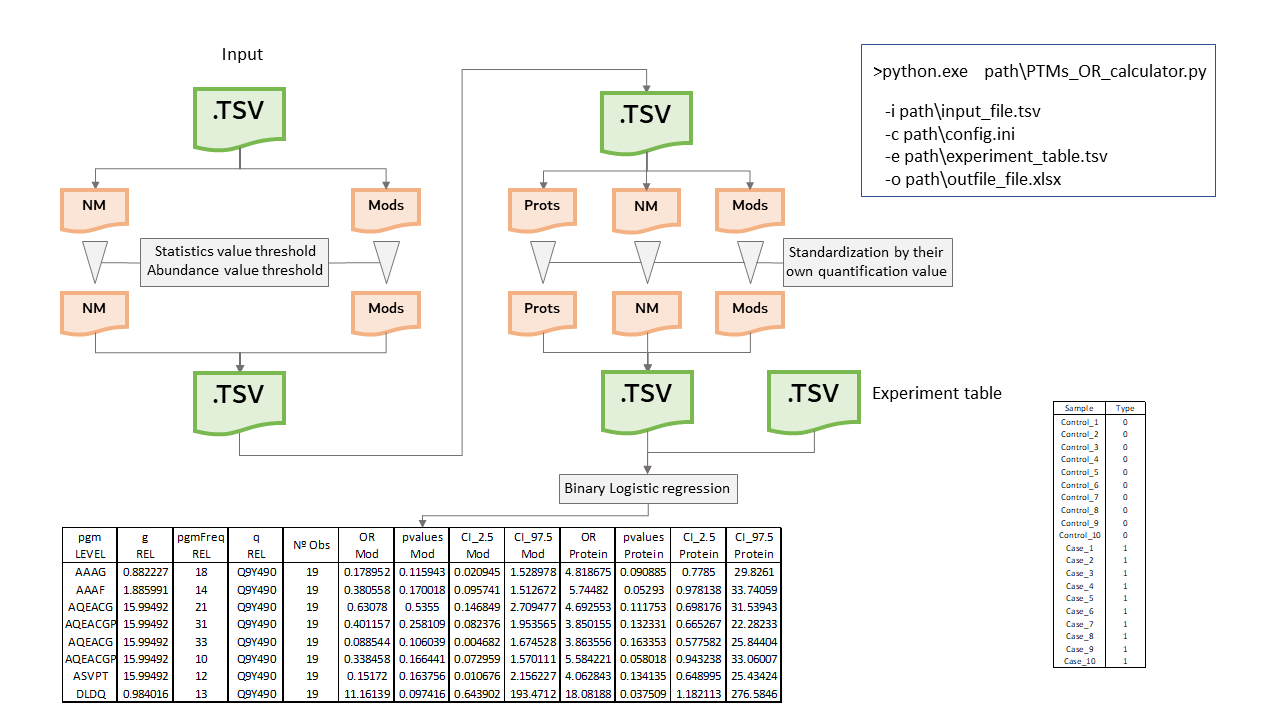
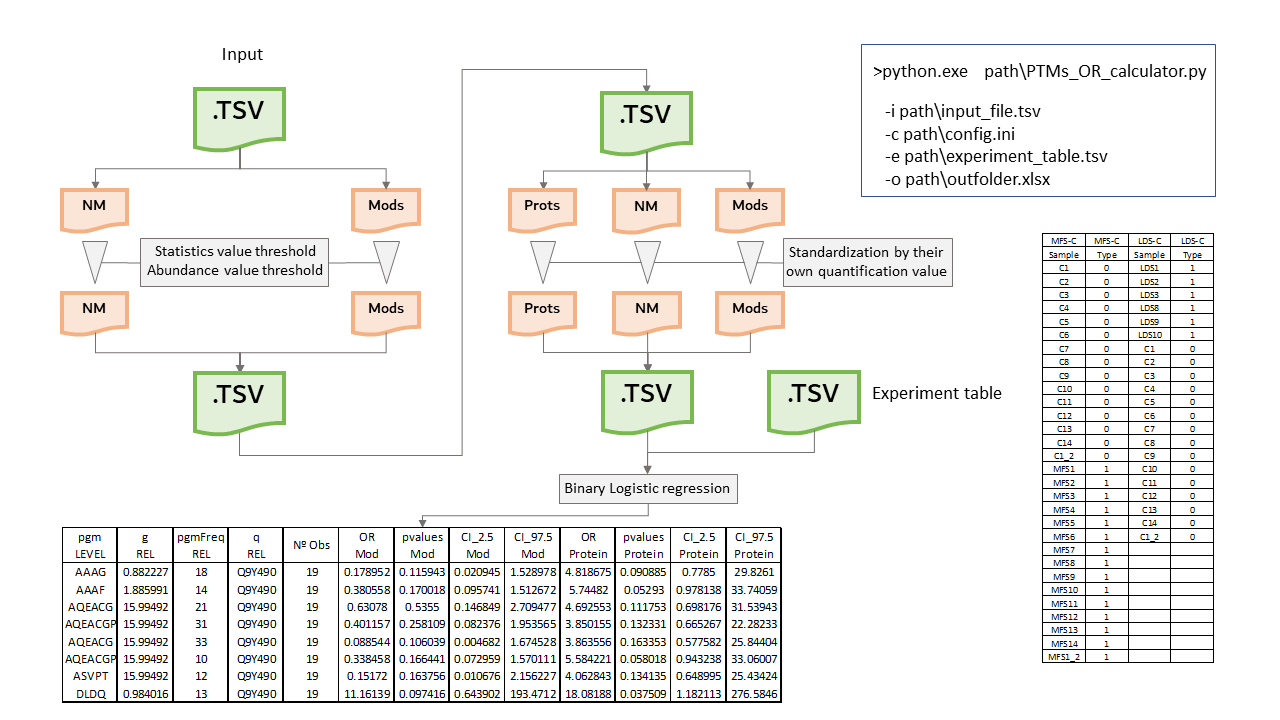
Adding branch for development v1.0.0

Changed region(s): [[0.8125, 0.3056, 0.9375, 0.9472], [0.75, 0.2444, 0.8438, 0.275]]

diff --git a/PTMs_OR.py b/PTMs_OR.py
@@ -24,11 +24,18 @@ import argparse
 import os
 import sys
 import logging
+import openpyxl
+
 warnings.filterwarnings("ignore")
 
 
 
 """ Functions """
+
+
+def check_folder(outfolder):
+    if not os.path.exists(outfolder):
+        os.makedirs(outfolder, exist_ok=True)
 
 
 def read_file(path, raw_table):
@@ -37,7 +44,7 @@ def read_file(path, raw_table):
         limma_table=pd.read_csv(path,sep='\t', header=[0,1])
         return limma_table
     else:
-        exp_table=pd.read_csv(path,sep='\t')
+        exp_table=pd.read_csv(path,sep='\t', header=[0,1])
         return exp_table
     
 
@@ -59,15 +66,16 @@ def filter_table(raw_table, group_column_header, nm_label,nm_stat_header,
 
 
 
-def prepare_table(filtered_table,samples,pgm_column_header, integrations_columns, 
-                  columns_to_save,prot_column_header, group_column_header):
+def prepare_table(filtered_table,samples,pgm_column_header, integrations_columns, columns_to_save,prot_column_header,
+                  group_column_header):
     
     filtered_table_nodup=filtered_table.drop_duplicates(pgm_column_header)
     headers=pd.MultiIndex.from_product([integrations_columns,samples])
     new_headers=columns_to_save+headers.to_list()
     def_table=filtered_table_nodup.loc[:,new_headers].reset_index(drop=True)
     prot_list=def_table[prot_column_header]
-    def_table[('pgm','BN')]=[f'A{i}_{prot_list[i]}' if 'NM' not in str(def_table[group_column_header][i]) else f'A{i}_NM_{prot_list[i]}' for i in range(len(def_table[group_column_header]))]
+    def_table[('pgm','BN')]=[f'A{i}_{prot_list[i]}' if 'NM' not in str(def_table[group_column_header][i]) else 
+                             f'A{i}_NM_{prot_list[i]}' for i in range(len(def_table[group_column_header]))]
 
     return def_table
 
@@ -107,7 +115,7 @@ def norm_files(tabla,integrations_columns,prot_integration_label, nm_integration
 
 
 
-def binary_regression(binary_table, formulas,variables):
+def binary_regression(binary_table, formulas,variables, correct_param):
 
     coefs=[]
     pvalues=[]
@@ -148,7 +156,11 @@ def binary_regression(binary_table, formulas,variables):
     df_results=pd.concat([coefs_df,pvalues_df,ci_df],axis=1)
 
     params=['OR','pvalues','CI_2.5','CI_97.5']
-    columns=['Intercept','Protein','Mod']
+
+    if correct_param ==1:
+        columns=['Intercept','Protein','Mod']
+    else:
+        columns=['Intercept','Mod']
     # columns=['Intercept','Protein']
     header=pd.MultiIndex.from_product([params,columns])
 
@@ -163,6 +175,87 @@ def binary_regression(binary_table, formulas,variables):
     return df_final
 
 
+def merge_report(report,data_table,columns_to_save):
+
+    meta_data=data_table.set_index(('pgm','BN')).loc[:,columns_to_save]
+    final_report=pd.merge(meta_data,report,left_index=True,right_index=True)
+
+    return final_report
+
+
+def plot_joiner(final_report, path_plots, path_plot_filtered, prot_column_header,
+                filter_label,contrast, outfolder):
+
+
+    if path_plots:
+
+
+        ptmMapPath_nofilt = path_plots
+        ptmMapPath_filt = path_plot_filtered
+        plotted_q = [os.path.splitext(j)[0] for j in os.listdir(ptmMapPath_nofilt)]
+        final_report[('PTMMap','NoFilt')]=[f"=HYPERLINK(\"{os.path.join(ptmMapPath_nofilt, j)}.html\", \"{j}\")" if j in plotted_q and
+                                           contrast in os.path.dirname(path_plots) and contrast in os.path.dirname(path_plot_filtered)
+                                           else '' for j in final_report[prot_column_header]]
+        
+        final_report[('PTMMap','Filt')]=[f"=HYPERLINK(\"{os.path.join(ptmMapPath_filt, j)}.html\", \"{j}\")" if j in plotted_q and 
+                                         contrast in os.path.dirname(path_plots) and contrast in os.path.dirname(path_plot_filtered) 
+                                         else '' for j in final_report[prot_column_header]]
+        
+        if contrast not in os.path.dirname(path_plots) or contrast not in os.path.dirname(path_plot_filtered):
+
+            logging.warning('You have provide PTMMaps that do not belong to the contrast you are analyzing')
+
+
+    else:
+
+        ptmMapPath_nofilt = os.path.join(os.path.dirname(outfolder), f'PTMMaps/{contrast}/plots')
+        ptmMapPath_filt = os.path.join(os.path.dirname(outfolder), f'PTMMaps/{contrast}/plots_{filter_label}')
+        plotted_q = [os.path.splitext(j)[0] for j in os.listdir(ptmMapPath_nofilt)]
+        ptmMapPathExcel_nofilt = f'../PTMMaps/{contrast}/plots'
+        ptmMapPathExcel_filt = f'../PTMMaps/{contrast}/plots_{filter_label}'
+
+        if os.path.exists(ptmMapPath_filt) and os.path.exists(ptmMapPath_nofilt):
+
+            final_report[('PTMMap','NoFilt')]=[f"=HYPERLINK(\"{os.path.join(ptmMapPathExcel_nofilt, j)}.html\", \"{j}\")" if j in plotted_q else j for j in final_report[prot_column_header]]
+            final_report[('PTMMap','Filt')]=[f"=HYPERLINK(\"{os.path.join(ptmMapPathExcel_filt, j)}.html\", \"{j}\")" if j in plotted_q else ''  for j in final_report[prot_column_header]]
+
+        else:
+            final_report[('PTMMap','NoFilt')]=''
+            final_report[('PTMMap','Filt')]=''
+            logging.warning('Your PTMMaps paths are wrong')
+
+    return final_report
+
+
+
+def report_format (report_plots, path_report, correct_param):
+
+    header=list(zip(*report_plots.columns.to_list()))
+    report_plots.columns = np.arange(0, report_plots.shape[1])
+    report_plots=pd.concat([pd.DataFrame(header),report_plots])
+    report_plots.to_excel(path_report,index=False, header=False)
+
+    toFormat = [n+1 for n,i in enumerate(report_plots.iloc[:, -1]) if 'HYPERLINK' in i]
+    toFormat2 = [n+1 for n,i in enumerate(report_plots.iloc[:, -2]) if 'HYPERLINK' in i]
+
+
+    book = openpyxl.load_workbook(path_report)
+
+    sheet = book['Sheet1']
+
+    if correct_param==1:
+        columns=['X','Y']
+    else:
+        columns=['T','U']
+
+    for i in toFormat:
+        sheet[f'{columns[0]}{i}'].font = openpyxl.styles.Font(color='0000FF', underline='single')
+
+    for i in toFormat2:
+        sheet[f'{columns[1]}{i}'].font = openpyxl.styles.Font(color='0000FF', underline='single')
+
+    book.save(path_report)
+
 
 def write_report(report,data_table,columns_to_save, path_report):
 
@@ -174,62 +267,88 @@ def write_report(report,data_table,columns_to_save, path_report):
 
 
 
-def main(path,path_exp,group_column_header, nm_label,nm_stat_header,
-         mod_stat_header,pgm_freq_header, stat_threshold, pgm_freq_threshold,
+def main(path,path_exp,group_column_header, nm_label,nm_stat_header_contrast,
+         mod_stat_header_contrast,pgm_freq_header, stat_threshold, pgm_freq_threshold,
          integrations_columns, columns_to_save, pgm_column_header,prot_column_header,
          prot_integration_label, nm_integration_label, mod_integration_label,path_report,
-         binary_exp_table_label):
+         binary_exp_table_label,groups, path_plots, path_plot_filtered, filter_label,outfolder,
+         correct_param):
 
-    print('\n')
     logging.info('Reading files')
 
     limma_table=read_file(path,True)
 
     exp_table=read_file(path_exp,False)
-    samples=exp_table['Sample'].to_list()
 
-    logging.info('Applying filters')
+    logging.info('Applying filters'+'\n')
 
-    print('\n'+'pvalue threshold:',stat_threshold)
-    print('pgmFrequency threshold:', pgm_freq_threshold,'\n')
+    logging.info('pvalue threshold: '+str(stat_threshold))
+    logging.info('pgmFrequency threshold: '+ str(pgm_freq_threshold)+'\n')
 
-    filtered_table=filter_table(limma_table,group_column_header, nm_label,nm_stat_header,
-                                mod_stat_header, pgm_freq_header, stat_threshold, pgm_freq_threshold)
+    samples=exp_table[groups]['Sample'].dropna().to_list()
+
+
+    filtered_table=filter_table(limma_table,group_column_header, nm_label,nm_stat_header_contrast,
+                                mod_stat_header_contrast, pgm_freq_header, stat_threshold, pgm_freq_threshold)
     
-    print('Nº pgms before filtering:', len(limma_table))
-    print('Nº pgms after filtering:', len(filtered_table),'\n')
 
+    logging.info('Nº pgms before filtering: '+ str(len(limma_table)))
+    logging.info('Nº pgms after filtering: '+ str(len(filtered_table))+'\n')
 
-    
 
     prepared_table=prepare_table(filtered_table,samples,pgm_column_header,integrations_columns,columns_to_save,
                             prot_column_header,group_column_header)
-    formulas=[f'{binary_exp_table_label}~{i.split("_")[-1]}+{i}' for i in prepared_table[('pgm','BN')]]
-    variables=prepared_table[('pgm','BN')].to_list()
     
+
+
     logging.info('Standarizing data')
-
-
+    
+    
     norm_table=norm_files(prepared_table,integrations_columns,prot_integration_label, nm_integration_label, mod_integration_label,
                group_column_header,nm_label,
                samples, prot_column_header)
     
 
-    binary_table=pd.merge(exp_table,norm_table,left_on='Sample',right_on='Sample')
+    binary_table=pd.merge(exp_table[groups],norm_table,left_on='Sample',right_on='Sample')
+
     binary_table.columns=[i.replace('-','_') for i in binary_table.columns]
 
-    # binary_table.to_excel(r'S:\U_Proteomica\LABS\LAB_ARR\LaCaixa\tejidos-secretomas\New_Comet_500\final_iSanxot\Intima\Q1\reports\WF\3_FDRoptimizer\file_to_check.xlsx')
+    if correct_param ==1:
 
-    logging.info('Applying Binary loggistic regression')
+        formulas=[f'{binary_exp_table_label}~{i.split("_")[-1]}+{i}' for i in prepared_table[('pgm','BN')]]
+
+    else:
+
+        logging.info('You are not correcting by protein\'s Zq')
+        
+        formulas=[f'{binary_exp_table_label}~{i}' for i in prepared_table[('pgm','BN')]]
+
+    variables=prepared_table[('pgm','BN')].to_list()
+
+
+    logging.info('Applying Binary logistic regression')
+
     
-    report=binary_regression(binary_table,formulas,variables)
+    report=binary_regression(binary_table,formulas,variables, correct_param)
 
     logging.info('Writting file')
 
-    write_report(report,prepared_table,columns_to_save,path_report)
+
+    merged_report=merge_report(report,prepared_table,columns_to_save)
 
 
-    return report
+    report_plots=plot_joiner(merged_report, path_plots,path_plot_filtered,prot_column_header,
+                             filter_label,groups, outfolder)
+    
+    
+    report_format(report_plots, path_report,correct_param)
+
+
+    return report_plots
+
+
+
+
 
 
 if __name__ == '__main__':
@@ -247,24 +366,18 @@ if __name__ == '__main__':
     parser.add_argument('-i', '--infile', required=True, help='Zqs file')
     parser.add_argument('-c', '--config', default=defaultconfig, help='Path to custom config.ini file')
     parser.add_argument('-e', '--experiment_table', required=True, help='Path to metadata.tsv file')
-    parser.add_argument('-o', '--outfile', required=True, help='Name of the output file')
+    parser.add_argument('-o', '--outfolder', required=True, help='Name of the output folder')
 
     args = parser.parse_args()
 
     path=args.infile
     path_exp=args.experiment_table
-    path_report=args.outfile
-    log_file = path_report[:-4] + '_binary_regression_log.txt'
-
-    logging.basicConfig(level=logging.INFO,
-                        format='%(asctime)s - %(levelname)s - %(message)s',
-                        datefmt='%m/%d/%Y %I:%M:%S %p',
-                        handlers=[logging.FileHandler(log_file),
-                                    logging.StreamHandler()])
+    path_report=args.outfolder
+ 
 
 
     # start main function
-    logging.info('start script: '+"{0}".format(" ".join([x for x in sys.argv])))
+
 
 
     config = configparser.ConfigParser(inline_comment_prefixes='#')
@@ -274,38 +387,69 @@ if __name__ == '__main__':
 
     """Reading parameters"""
 
-    group_column_header=tuple(eval(params['group_column_header.save']))
+    group_column_header=tuple(eval(params['group_column_header']))
     nm_label=params['nm_label']
-    nm_stat_header=tuple(eval(params['nm_statistic_header']))
-    mod_stat_header=tuple(eval(params['mod_statistic_header']))
-    pgm_freq_header=tuple(eval(params['pgm_freq_header.save']))
+    nm_stat_header=eval(params['nm_statistic_header'])
+    mod_stat_header=eval(params['mod_statistic_header'])
+    pgm_freq_header=tuple(eval(params['pgm_freq_header']))
     stat_threshold=float(params['stats_threshold'])
     pgm_freq_threshold=float(params['pgm_freq_threshold'])
-    pgm_column_header=tuple(eval(params['pgm_column_header.save']))
-    prot_column_header=tuple(eval(params['protein_column_header.save']))
+    pgm_column_header=tuple(eval(params['pgm_column_header']))
+    prot_column_header=tuple(eval(params['protein_column_header']))
 
     prot_integration_label=params['prot_integration_label']
     nm_integration_label=params['nm_integration_label']
     mod_integration_label=params['mod_integration_label']
     binary_exp_table_label=params['binary_exp_table_label']
+    correct_param=int(params['correct_by_protein'])
 
     integrations_columns= [prot_integration_label,nm_integration_label,mod_integration_label]
-    columns_to_save=[tuple(eval(params[i])) for i in list(params.keys()) if '.save' in i]
+    columns_to_save=[pgm_column_header, group_column_header, pgm_freq_header, 
+                     prot_column_header]+[tuple(eval(params[i])) for i in list(params.keys()) if '.save' in i]
+
+    groups= eval(params['groups'])
 
 
-    main(path,path_exp,group_column_header, nm_label,nm_stat_header,
-         mod_stat_header,pgm_freq_header, stat_threshold, pgm_freq_threshold,
+    path_plots=params['plot_total']
+    path_plot_filtered=params['plot_filtered']
+    filter_label= params['filter_label']
+
+    outfolder=os.path.join(path_report,'OR_results')
+
+    check_folder(outfolder)
+    log_file = os.path.join(outfolder,f'ORs_log.txt')
+
+    for i in groups:
+        
+        nm_stat_header_contrast=nm_stat_header.copy()
+        nm_stat_header_contrast[0]=nm_stat_header_contrast[0]+f'_{i}'
+        nm_stat_header_contrast=tuple(nm_stat_header_contrast)
+
+        mod_stat_header_contrast=mod_stat_header.copy()
+        mod_stat_header_contrast[0]=mod_stat_header_contrast[0]+f'_{i}'
+        mod_stat_header_contrast=tuple(mod_stat_header_contrast)
+
+
+        path_report_contrast=os.path.join(outfolder,f'ORs_{i}.xlsx')
+
+        logging.basicConfig(level=logging.INFO,
+                            format='%(asctime)s - %(levelname)s - %(message)s',
+                            datefmt='%m/%d/%Y %I:%M:%S %p',
+                            handlers=[logging.FileHandler(log_file),
+                                        logging.StreamHandler()])
+        
+        print('\n')
+        
+        logging.info('start script: '+"{0}".format(" ".join([x for x in sys.argv]))+'\n')
+
+        logging.info(f'Performing PTM OR calculation on {i} contrast'+'\n')
+
+        main(path,path_exp,group_column_header, nm_label,nm_stat_header_contrast,
+         mod_stat_header_contrast,pgm_freq_header, stat_threshold, pgm_freq_threshold,
          integrations_columns, columns_to_save, pgm_column_header,prot_column_header,
-         prot_integration_label, nm_integration_label, mod_integration_label, path_report,
-         binary_exp_table_label)
+         prot_integration_label, nm_integration_label, mod_integration_label,path_report_contrast,
+         binary_exp_table_label,i, path_plots, path_plot_filtered, filter_label, outfolder,
+         correct_param)
+        
 
-    logging.info('End script')
-
-    # file_handler = logging.FileHandler(os.path.join(os.path.dirname(path_report),
-    #                                                 os.path.basename(path).split('.tsv')[0]+'_ORs_calculator.log'))
-    
-    # logging.basicConfig(level=logging.INFO,
-    #                 format='%(asctime)s - %(levelname)s - %(message)s',
-    #                 datefmt='%m/%d/%Y %I:%M:%S %p',
-    #                 handlers=[file_handler,
-    #                             logging.StreamHandler()])
+        logging.info('End script'+'\n')
